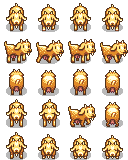
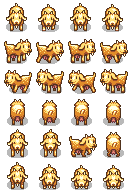
changement de l image chevre et ajout de la direction de deplacement a gauche et rectification du fichier utilsateur pour gerer ce changement

diff --git a/maitre_du_jeu.c b/maitre_du_jeu.c
@@ -118,28 +118,20 @@ monde *generer_un_monde(monde *monde_courant)
     Synopsis : prend le monde et pour chaque entité, demande à la SDL d'annimer 4 frame de l'entité pour qu'elle se déplacent sur l'écran*/
 void afficher_monde(monde *monde_courant)
 {
-    int pas_goat = monde_courant->goats_tab[0]->speed / 4;
-    for (int j = 0; j < 4; j++)
+    
+    
+    dessiner_monde();
+    for (int w = 0; w < monde_courant->nb_goat; w++)
     {
-        dessiner_monde();
-        for (int w = 0; w < monde_courant->nb_goat; w++)
-        {
-            Goat *current_goat = monde_courant->goats_tab[w];
-            dessiner_entite(1, current_goat->dir_x - pas_goat * 4 - j, current_goat->dir_y - pas_goat * 4 - j, current_goat->frame, current_goat->direction_sprite);
-            if (current_goat->frame == 4)
-                current_goat->frame = 0;
-            else
-                current_goat->frame++;
-        }
-        dessiner_entite(2, monde_courant->fermiers->x - pas_goat * 4 - j, monde_courant->fermiers->y - pas_goat * 4 - j, monde_courant->fermiers->frame, monde_courant->fermiers->direction_sprite);
-        if (monde_courant->fermiers->frame == 9)
-            monde_courant->fermiers->frame = 0;
-        else
-            monde_courant->fermiers->frame++;
-        actualiser_ecran();
-        SDL_Delay(200);
+        Goat *current_goat = monde_courant->goats_tab[w];
+        dessiner_entite(1, current_goat->dir_x , current_goat->dir_y , current_goat->frame, current_goat->direction_sprite);
         
     }
+    dessiner_entite(2, monde_courant->fermiers->x  , monde_courant->fermiers->y , monde_courant->fermiers->frame, monde_courant->fermiers->direction_sprite);
+    
+    actualiser_ecran();
+        
+    
 }
 
 /* Entrée : le monde actuel
@@ -153,8 +145,10 @@ monde *mis_à_jour_monde(monde *monde_courant)
         current_goat = update_goat(current_goat, monde_courant->goats_tab, monde_courant->nb_goat);
         current_goat->x = current_goat->dir_x;
         current_goat->y = current_goat->dir_y;
+        current_goat->frame = (current_goat->frame + 1) % 4;
     }
     monde_courant->fermiers = update_fermier(monde_courant->fermiers, monde_courant->fermiers->x, monde_courant->fermiers->y);
+    monde_courant->fermiers->frame = (monde_courant->fermiers->frame + 1) % 9;
     return monde_courant;
 }
 

diff --git a/affichage.c b/affichage.c
@@ -39,10 +39,10 @@ int init_affichage() {
 }
 
 int gestion_direction_chevre(int direction){
-    if (direction==1) return 2;
+    if (direction==1) return 3;
     else if (direction==2) return 1;
     else if (direction==3) return 0;
-    else if (direction==4) return 3;
+    else if (direction==4) return 2;
     return -1;
 }
 
@@ -69,7 +69,7 @@ void dessiner_entite(int type_entite, int position_x, int position_y,int frame,i
     if (type_entite == 1) {
         texture_actuelle = texture_chevre;
         nb_image=4;
-        nb_ligne=5;
+        nb_ligne=6;
         direction=gestion_direction_chevre(direction);
         } 
     else if (type_entite == 2) { 

diff --git a/fermier.h b/fermier.h
@@ -3,7 +3,7 @@
 
 #include "utilisateur.h"
 
-#define VITESSE_FERMIER 25.0f
+#define VITESSE_FERMIER 5.0f
 #define WIDTH_FERMIER 50
 #define HEIGHT_FERMIER 30
 #define TAILLE_MAP 1024
